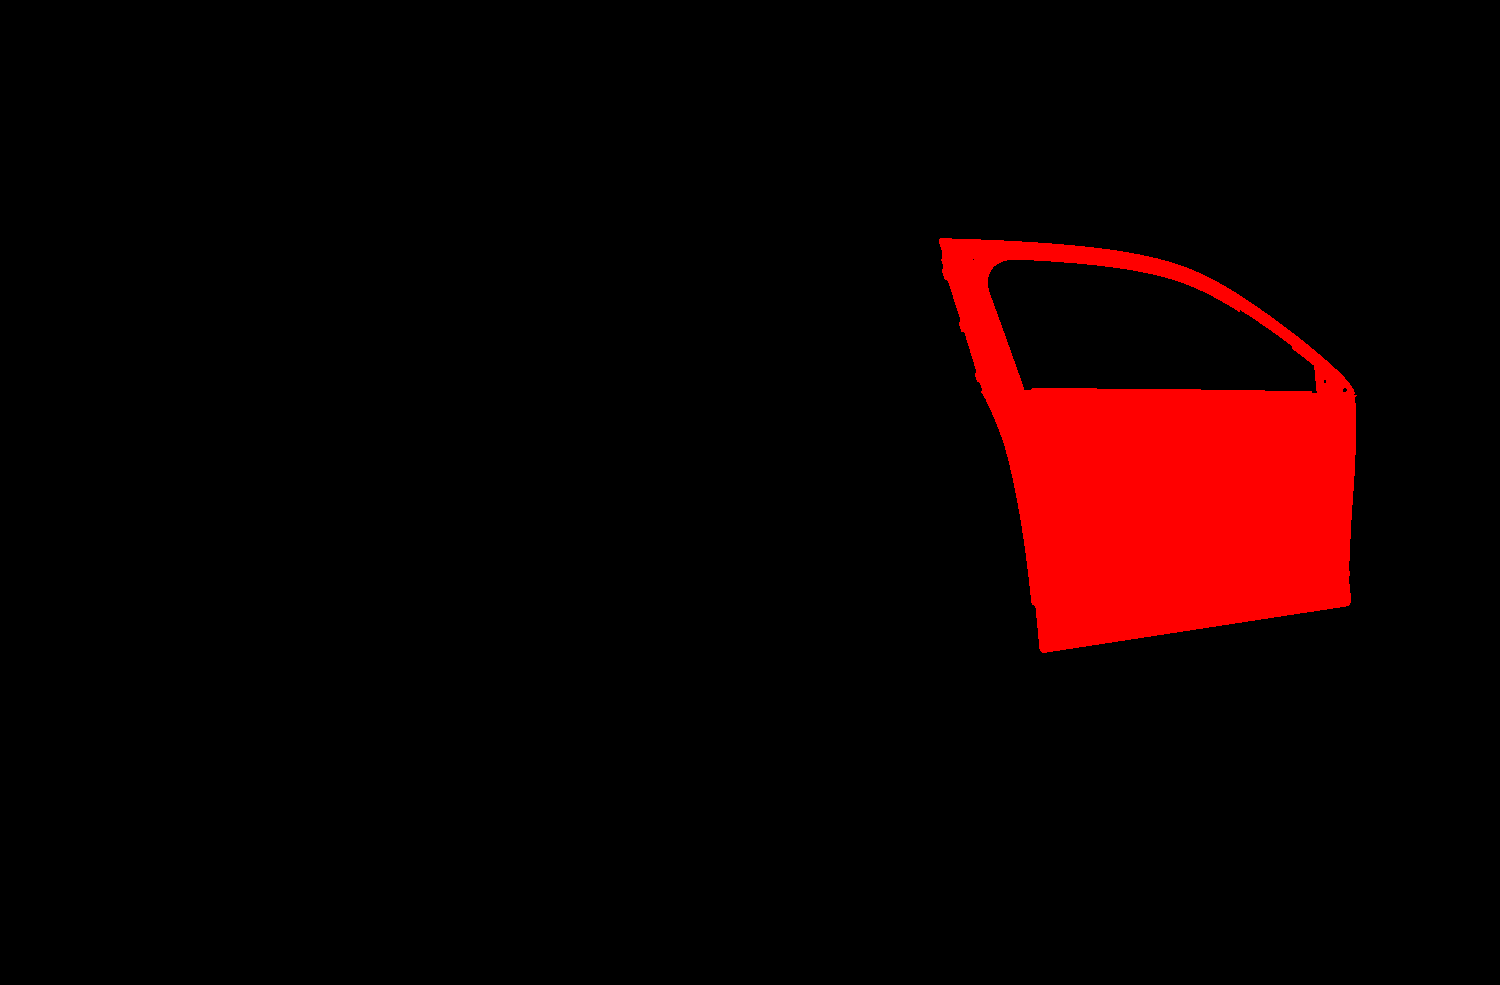
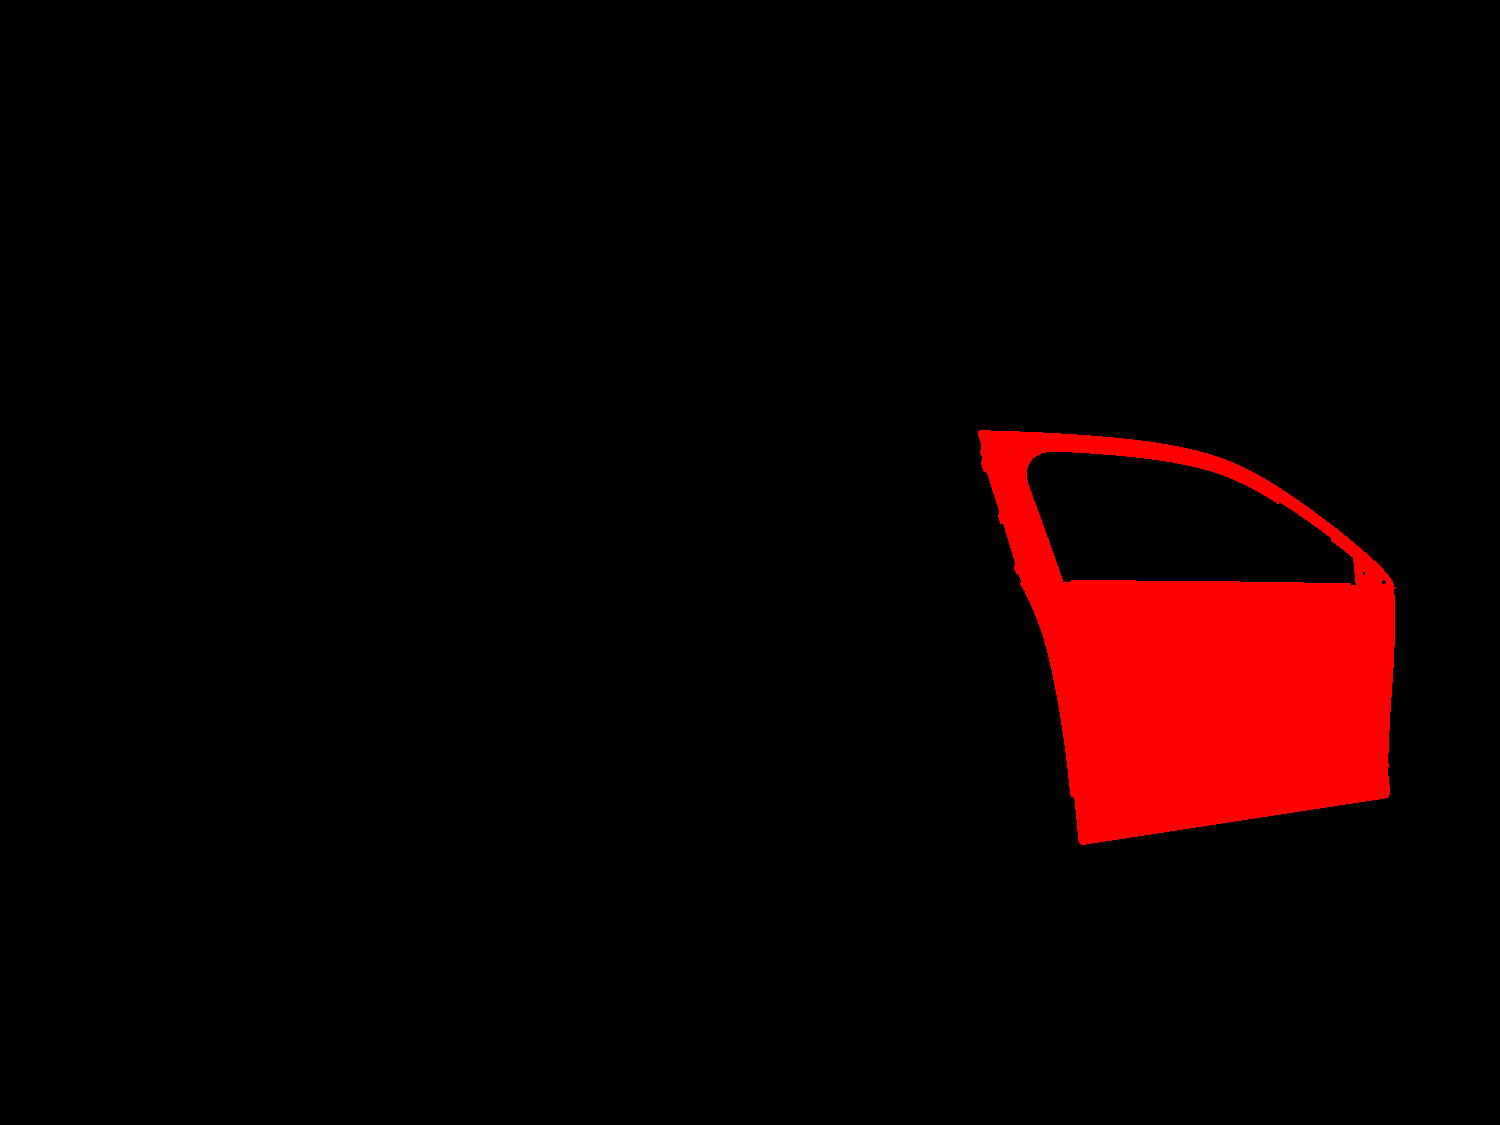
background random choice

Changed region(s): [[0.6133, 0.2437, 0.9507, 0.7614]]

diff --git a/image_overlay.py b/image_overlay.py
@@ -1,3 +1,9 @@
+# coding: utf-8
+
+# created by Hang Wu on 2018.10.07
+# feedback: h.wu@tum.de
+
+
 import cv2
 import numpy as np
 from numpy import random
@@ -76,18 +82,23 @@ def overlap(background, foreground, bnd_pos):
     cv2.imwrite('masks/{}.png'.format(save_name), object_mask)
 
     # Display
-    # cv2.imshow('{}.jpg'.format(save_name), output_image)
-    # cv2.imshow('mask', object_mask)
-    # cv2.waitKey(1000)
-    # cv2.destroyAllWindows()
+    cv2.imshow('{}.jpg'.format(save_name), output_image)
+    cv2.imshow('mask', object_mask)
+    cv2.waitKey(0)
+    cv2.destroyAllWindows()
     return bnd_pos
 
 
 if __name__ == '__main__':
     
     fg_list = load_image.loadim('images')
+    print(fg_list)
+    bg_list = load_image.loadim('background','jpg','Fabrik')
+    print(bg_list)
     for fg in fg_list:
         bnd_info = generate_dict.object_dict(fg)
         fg = cv2.imread(fg, -1)
-        bg = cv2.imread('background/Fabrik.jpg', -1)
+        bg_path = random.choice(bg_list)
+        print(bg_path)
+        bg = cv2.imread(bg_path, -1)
         overlap(bg, fg, bnd_info)

diff --git a/generate_dict.py b/generate_dict.py
@@ -1,3 +1,9 @@
+# coding: utf-8
+
+# created by Hang Wu on 2018.10.07
+# feedback: h.wu@tum.de
+
+
 import cv2
 import numpy as np
 import matplotlib.pyplot as plt
@@ -14,8 +20,6 @@ def object_dict(impath):
     img = cv2.imread(impath, -1)
 
     rows, cols, channels = img.shape
-
-    # emptyImage = np.zeros([rows,cols,3], np.uint8)
 
     # Initialization for the position
     xmin = cols
@@ -35,13 +39,6 @@ def object_dict(impath):
                     ymax = i
                 if xmax < j:
                     xmax = j
-
-    # Generate mask
-    # cv2.imshow('mask',emptyImage)
-    # cv2.waitKey(0)
-    # cv2.destroyAllWindows()
-    # mask_name = bnd_dict['filename'] = impath.split(os.path.sep)[-1][:-4]
-    # cv2.imwrite('masks/mask_{}.png'.format(mask_name), emptyImage)
 
     # Bounding box information for .xml
     bnd_dict['folder'] = impath.split(os.path.sep)[-2]

diff --git a/xml_writer.py b/xml_writer.py
@@ -1,9 +1,13 @@
-# coding:utf-8
+# coding: utf-8
+
+# created by Hang Wu on 2018.10.07
+# feedback: h.wu@tum.de
 
 from lxml.etree import Element, SubElement, tostring
 import pprint
 from xml.dom.minidom import parseString
 import cv2
+from numpy import random
 
 # Eigen
 import image_overlay
@@ -71,10 +75,12 @@ def xml_generator(bndbox):
 
 if __name__ == '__main__':
     fg_list = load_image.loadim('images')
+    bg_list = load_image.loadim('background','jpg','Fabrik')
     for fg in fg_list:
         bnd_info = generate_dict.object_dict(fg)
         fg = cv2.imread(fg, -1)
-        bg = cv2.imread('background/Fabrik.jpg', -1)
+        bg_path = random.choice(bg_list)
+        bg = cv2.imread(bg_path, -1)
         object_bndbox = image_overlay.overlap(bg, fg, bnd_info)
         xml_generator(object_bndbox)
         print(object_bndbox)

diff --git a/load_image.py b/load_image.py
@@ -1,9 +1,15 @@
+# coding: utf-8
+
+# created by Hang Wu on 2018.10.07
+# feedback: h.wu@tum.de
+
 import os
 
-image_list = []
-def loadim(image_path = 'images'):
+
+def loadim(image_path = 'images', ext = 'png', key_word = 'car_door'):
+    image_list = []
     for filename in os.listdir(image_path):
-        if filename.endswith('png') and filename.find('car_door') != -1:
+        if filename.endswith(ext) and filename.find(key_word) != -1:
             current_path = os.path.abspath(image_path)
             image_abs_path = os.path.join(current_path,filename)
             image_list.append(image_abs_path)
